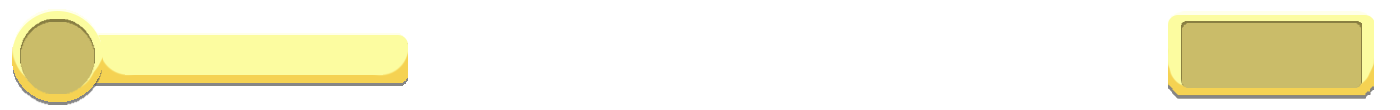
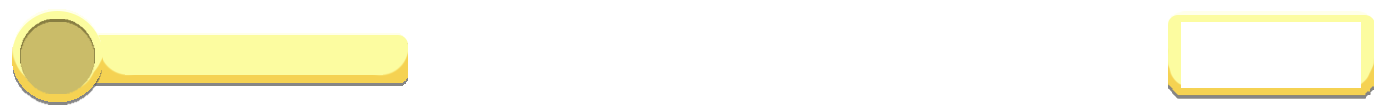
Updated weapon selection, added logic for health, logic for removing when death, and gameover

Changed region(s): [[0.8293, 0.1909, 0.9829, 0.8182]]

diff --git a/turnmanager.js b/turnmanager.js
@@ -3,8 +3,8 @@
 
 function turnManager(gameEngine) {
 	this.playerOne = { player: 1, hp: 100, turn: false, icon: new Animation(AM.getAsset("./img/explosion/banIdle.png"), 128, 128, 8, .1, 8, true, 0.51, false) };
-	this.playerTwo = { player: 2, hp: 80, turn: false, icon: new Animation(AM.getAsset("./img/Lime/limeIdle.png"), 128, 128, 8, .1, 8, true, .58, false) };
-	this.playerThree = { player: 3, hp: 10, turn: false, icon: new Animation(AM.getAsset("./img/Pineapple/pineappleIdle.png"), 128, 128, 8, .1, 8, true, .52, false) };
+	this.playerTwo = { player: 2, hp: 100, turn: false, icon: new Animation(AM.getAsset("./img/Lime/limeIdle.png"), 128, 128, 8, .1, 8, true, .58, false) };
+	this.playerThree = { player: 3, hp: 100, turn: false, icon: new Animation(AM.getAsset("./img/Pineapple/pineappleIdle.png"), 128, 128, 8, .1, 8, true, .52, false) };
 	this.playerFour = { player: 4, hp: 100, turn: false, icon: new Animation(AM.getAsset("./img/Coconut/coconutIdle.png"), 128, 128, 8, .1, 8, true, 0.58, false) };
 	this.starting = true;
 	this.shot = false;
@@ -47,8 +47,6 @@ function turnManager(gameEngine) {
 	// Current character: 
 	this.currentPlayer = this.playerOne;
 
-	// Current weapon: 
-	this.currentWeapon = AM.getAsset("./img/weapon/grenadeLauncher.png");
 
 	// Default time per turn in ms
 	this.DEFAULT_TIME_LIMIT = 15000;
@@ -115,11 +113,10 @@ turnManager.prototype.draw = function (ctx) {
 
 	// Set Up current character
 	this.currentPlayer.icon.drawFrame(this.gameEngine.clockTick, this.ctx, 22, 20);
-	
-	// Set up current weapon
-	ctx.drawImage(this.currentWeapon, 1210, -8);
 
 	drawHealthbar(ctx, 110, 42, 286, 32, this.currentPlayer.hp, 100);
+
+	checkGameStatus(ctx, this.turn1, this.turn2);
 }
 
 // createCountDown retrieves current countdown
@@ -158,4 +155,45 @@ function drawHealthbar(canvas, x, y, width, height, health, max_health) {
 		canvas.fillStyle = '#00' + colorString;
 	}
 	canvas.fillRect(x + 1, y + 1, (health / max_health) * (width - 2), height - 2);
+	canvas.font = "28px Calibri";
+	canvas.fillStyle = ("white");
+	canvas.fillText(health + "/" + max_health, 257, 47);
+}
+
+/**
+ * checkGameStatus checks to see if all valid players are in the game 
+ * Also, if the game is over
+ */
+function checkGameStatus(theCanvas, theTeam1, theTeam2) {
+	// If an array is empty that means the other team won
+	// Check first team to see if anyone is at 0 health 
+	if (theTeam1.length > 0) {
+		var i;
+		for (i = 0; i < theTeam1.length; i++) {
+			if (theTeam1[i].hp <= 0) {
+				theTeam1.splice(i, 1);
+			}
+		}
+	} else { // Team lost no members left
+		theCanvas.fillStyle = "black";
+		theCanvas.font = "100px Calibri Light";
+		theCanvas.fillText("Game Over", 700, 200);
+		theCanvas.fillText("Congratulations Team 2!", 700, 300);
+	}
+
+	// Check second team to see if anyone is at 0 health
+	if (theTeam2.length > 0) {
+		var i;
+		for (i = 0; i < theTeam2.length; i++) {
+			if (theTeam2[i].hp <= 0) {
+				theTeam2.splice(i, 1);
+			}
+		}
+	} else { // Team lost no members left
+		theCanvas.fillStyle = "black";
+		theCanvas.font = "100px Calibri Light";
+		theCanvas.fillText("Game Over", 700, 200);
+		theCanvas.fillText("Congratulations Team 1!", 700, 300);
+	}
+
 }

diff --git a/index.html b/index.html
@@ -1,14 +1,37 @@
 <!DOCTYPE html>
 <html>
+
 <head>
-    <meta charset="utf-8">
-    <title>Game Project Shell</title>
-	
-   <script type="text/javascript" src="./assetmanager.js">		</script>
+	<meta charset="utf-8">
+	<title>Game Project Shell</title>
+
+	<style>
+		* {
+			box-sizing: border-box;
+		}
+
+		/* Create four equal columns that floats next to each other */
+		.column {
+			float: left;
+			width: 25%;
+			padding: 10px;
+			height: 300px;
+			/* Should be removed. Only for demonstration */
+		}
+
+		/* Clear floats after the columns */
+		.row:after {
+			content: "";
+			display: table;
+			clear: both;
+		}
+	</style>
+
+	<script type="text/javascript" src="./assetmanager.js">		</script>
 	<script type="text/javascript" src="./Utils.js">			</script>
 	<script type="text/javascript" src="./Reticle.js">			</script>
 	<script type="text/javascript" src="./LineSegment.js">		</script>
-    <script type="text/javascript" src="./gameengine.js">		</script>
+	<script type="text/javascript" src="./gameengine.js">		</script>
 	<script type="text/javascript" src="./CollisionCircle.js">	</script>
 	<script type="text/javascript" src="./turnmanager.js">	 	</script>
 	<script type="text/javascript" src="./Ban.js">				</script>
@@ -25,11 +48,44 @@
 	<script type="text/javascript" src="./Animators.js">		</script>
 	<script type="text/javascript" src="./rocket.js">			</script>
 	<script type="text/javascript" src="./Terrain.js">			</script>
-    <script type="text/javascript" src="./main.js">				</script>
+	<script type="text/javascript" src="./main.js">				</script>
 </head>
+
 <body>
-	<div style = "text-align:center;">
-		<canvas id="gameWorld" tabindex="1" width="1400" height="700" style="border: 1px solid brown; background: lightskyblue"></canvas>
+	<div style="text-align:center;">
+		<canvas id="gameWorld" tabindex="1" width="1400" height="700"
+			style="border: 1px solid brown; background: lightskyblue"></canvas>
 	</div>
+	<div
+		style="margin: 0 auto; width: 1400px; height: 230px; text-align: center; border: 15px solid rgba(255,205,33,0.54); border-radius: 40px;">
+
+		<h1>Welcome to Fruit Wars</h1>
+		<div class="row">
+			<div class="column">
+				<div><b>Teams</b></div>
+				<div>Team 1: Banana & Pineapple</div>
+				<div>Team 2: Lime & Coconut</div>
+			</div>
+			<div class="column">
+				<div><b>Movement</b> </div>
+				<div>a: move left </div>
+				<div>d: move right </div>
+			</div>
+			<div class="column">
+				<div><b>Shooting</b></div>
+				<div>up arrow: increae power</div>
+				<div>down arrow: decrease power</div>
+				<div>right arrow & left arrow: aim</div>
+			</div>
+			<div class="column">
+				<div><b>Weapon Selection</b></div>
+				<div>1: grenade launcher</div>
+				<div>2: sniper</div>
+				<div>3: air strike</div>
+			</div>
+		</div>
+	</div>
+
 </body>
+
 </html>

diff --git a/GrenadeLauncher.js b/GrenadeLauncher.js
@@ -11,6 +11,8 @@ grenadeLauncher.prototype.drawIMG = function(angle) {
 		var wepImage = rotateImage(this.wepImage, angle);
 		var targetCenter = {x: this.player.x + (.5 * this.player.width * this.player.scalingFactor), y: this.player.y +(.5 * this.player.height * this.player.scalingFactor)};
 		this.ctx.drawImage(wepImage, targetCenter.x - .5*(wepImage.width*this.scale), targetCenter.y - .5*(wepImage.height*this.scale), wepImage.width*this.scale, wepImage.height*this.scale);
+		// Set up current weapon
+		this.ctx.drawImage(rotateImage(this.wepImage, 0), 1220, 0, wepImage.width*.8, wepImage.height*.8);
 	}
 };
 

diff --git a/Sniper.js b/Sniper.js
@@ -11,6 +11,8 @@ sniper.prototype.drawIMG = function(angle) {
 		var wepImage = rotateImage(this.wepImage, angle);
 		var targetCenter = {x: this.player.x + (.5 * this.player.width * this.player.scalingFactor), y: this.player.y +(.5 * this.player.height * this.player.scalingFactor)};
 		this.ctx.drawImage(wepImage, targetCenter.x - .5*(wepImage.width*this.scale), targetCenter.y - .5*(wepImage.height*this.scale), wepImage.width*this.scale, wepImage.height*this.scale);
+		// Set up current weapon
+		this.ctx.drawImage(rotateImage(this.wepImage, 0), 1220, 0, wepImage.width*.8, wepImage.height*.8);
 	}
 };
 

diff --git a/AirStrike.js b/AirStrike.js
@@ -11,6 +11,9 @@ airstrike.prototype.drawIMG = function(angle) {
 		var wepImage = rotateImage(this.wepImage, angle);
 		var targetCenter = {x: this.player.x + (.5 * this.player.width * this.player.scalingFactor), y: this.player.y +(.5 * this.player.height * this.player.scalingFactor)};
 		this.ctx.drawImage(wepImage, targetCenter.x - .25*(wepImage.width*this.scale), targetCenter.y - .5*(wepImage.height*this.scale), wepImage.width*this.scale, wepImage.height*this.scale);
+		
+		// Set up current weapon
+		this.ctx.drawImage(wepImage, 1250, 30, wepImage.width*.08, wepImage.height*.08);
 	}
 };
 

diff --git a/Pineapple.js b/Pineapple.js
@@ -176,6 +176,11 @@ pineapple.prototype.draw = function () {
         this.animationIdle.drawFrame(this.game.clockTick, this.ctx, this.x, this.y);
     }
 	this.selectedWep.drawIMG((this.shooter.angle / 180) * Math.PI);
+
+	if (this.player.hp <= 0){
+		this.removeFromWorld = true;
+	}
+
     Entity.prototype.draw.call(this);
 }
 

diff --git a/Coconut.js b/Coconut.js
@@ -176,6 +176,10 @@ coconut.prototype.draw = function () {
         this.animationIdle.drawFrame(this.game.clockTick, this.ctx, this.x, this.y);
     }
 	this.selectedWep.drawIMG((this.shooter.angle / 180) * Math.PI);
+
+	if (this.player.hp <= 0){
+		this.removeFromWorld = true;
+	}
     Entity.prototype.draw.call(this);
 }
 

diff --git a/Lime.js b/Lime.js
@@ -176,6 +176,11 @@ lime.prototype.draw = function () {
         this.animationIdle.drawFrame(this.game.clockTick, this.ctx, this.x, this.y);
     }
 	this.selectedWep.drawIMG((this.shooter.angle / 180) * Math.PI);
+
+	if (this.player.hp <= 0){
+		this.removeFromWorld = true;
+	}
+
     Entity.prototype.draw.call(this);
 }
 

diff --git a/Ban.js b/Ban.js
@@ -176,6 +176,11 @@ ban.prototype.draw = function () {
         this.animationIdle.drawFrame(this.game.clockTick, this.ctx, this.x, this.y);
     }
 	this.selectedWep.drawIMG((this.shooter.angle / 180) * Math.PI);
+
+	if (this.player.hp <= 0){
+		this.removeFromWorld = true;
+	}
+
     Entity.prototype.draw.call(this);
 }
 
